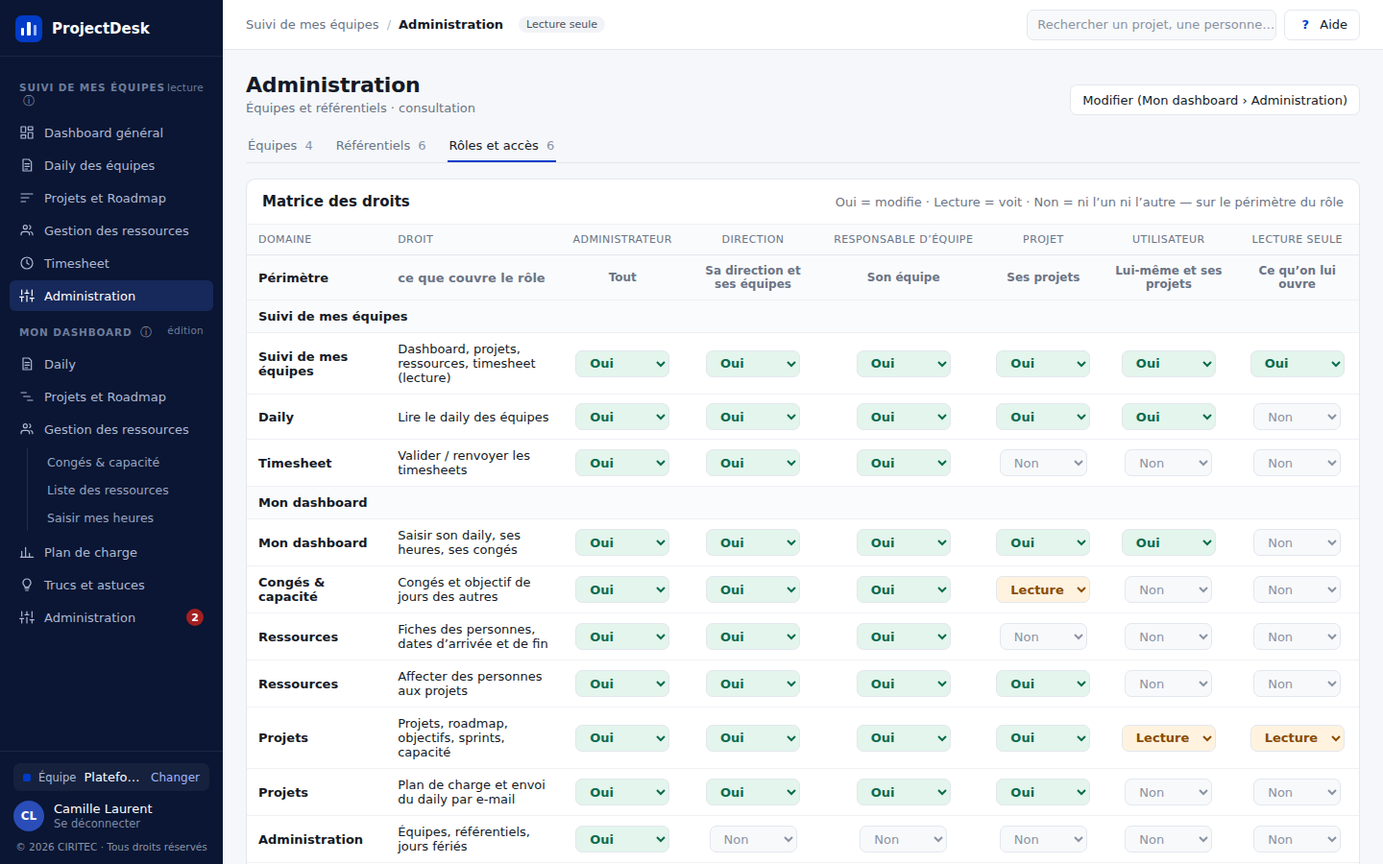
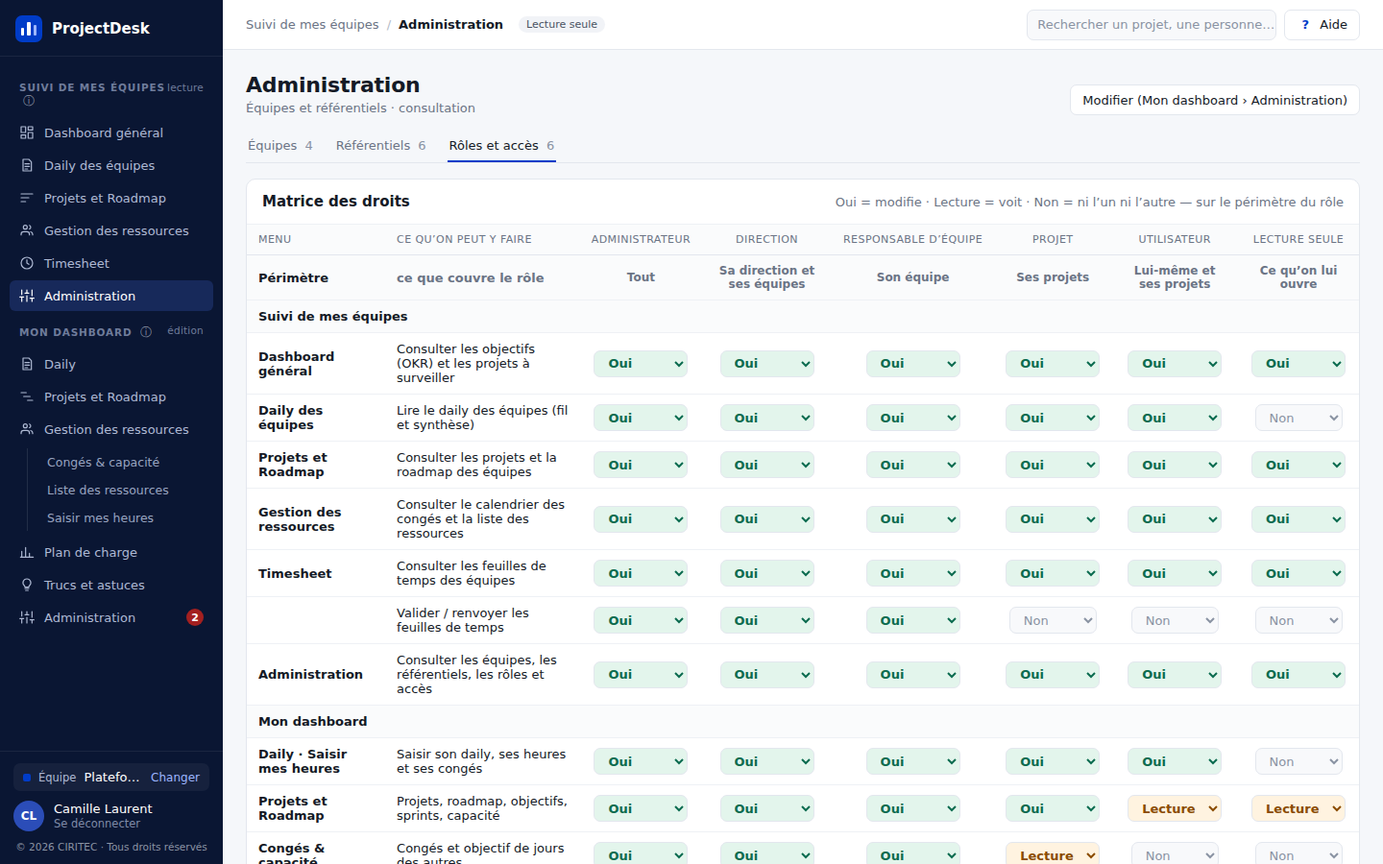
Matrice des droits par menu : un droit par menu de Suivi de mes équipes (migration 037 à appliquer) — DAT 2.19
- Colonnes Menu / Ce qu'on peut y faire, lignes dans l'ordre de la barre latérale,
  Trucs et astuces affiché « Tous ».
- Suivi de mes équipes : suivi_dashboard, suivi_projets, suivi_ressources, suivi_timesheet,
  suivi_administration (+ daily_equipes, valider_timesheet) règlent l'affichage de chaque menu.
- Migration 037 (additive) : nouveaux droits initialisés au niveau de « general » ; en attendant,
  l'application reprend ce niveau (repli) et fige les cases correspondantes.

Claude-Session: https://claude.ai/code/session_0187v8SY8uiT6dnWqjjqJYb6

diff --git a/app/js/config.js b/app/js/config.js
@@ -79,20 +79,29 @@ const ROLES_CHOISISSABLES = ['admin', 'direction', 'responsable', 'projet', 'uti
    2026-10-13). Clés fixes : chacune est reliée à des règles de la base (migration 031, fonction a_droit) ;
    les NIVEAUX (oui / lecture / non) se règlent dans l'application (table droits_roles). */
 const DROITS = [
-  { cle: 'general', section: 'suivi', domaine: 'Suivi de mes équipes', libelle: 'Dashboard, projets, ressources, timesheet (lecture)' },
-  { cle: 'mon_dashboard', section: 'dashboard', domaine: 'Mon dashboard', libelle: 'Saisir son daily, ses heures, ses congés' },
-  { cle: 'daily_equipes', section: 'suivi', domaine: 'Daily', libelle: 'Lire le daily des équipes' },
-  { cle: 'conges_equipe', section: 'dashboard', domaine: 'Congés & capacité', libelle: 'Congés et objectif de jours des autres' },
-  { cle: 'valider_timesheet', section: 'suivi', domaine: 'Timesheet', libelle: 'Valider / renvoyer les timesheets' },
-  { cle: 'fiches_ressources', section: 'dashboard', domaine: 'Ressources', libelle: 'Fiches des personnes, dates d’arrivée et de fin' },
-  { cle: 'affecter', section: 'dashboard', domaine: 'Ressources', libelle: 'Affecter des personnes aux projets' },
-  { cle: 'projets', section: 'dashboard', domaine: 'Projets', libelle: 'Projets, roadmap, objectifs, sprints, capacité' },
-  { cle: 'piloter', section: 'dashboard', domaine: 'Projets', libelle: 'Plan de charge et envoi du daily par e-mail' },
-  { cle: 'administration', section: 'dashboard', domaine: 'Administration', libelle: 'Équipes, référentiels, jours fériés' },
-  { cle: 'comptes', section: 'dashboard', domaine: 'Accès', libelle: 'Comptes en attente : donner l’accès' },
-  { cle: 'roles', section: 'dashboard', domaine: 'Accès', libelle: 'Rôles des utilisateurs et matrice des droits' },
-  { cle: 'nommer_admin', section: 'dashboard', domaine: 'Accès', libelle: 'Nommer ou retirer un administrateur' }
+  /* menu : menu de la barre latérale où le droit s'exerce (colonne « Menu » de la matrice, porteur 2026-10-18).
+     Suivi de mes équipes : un droit par menu (option B du porteur, migration 037). Tant que la migration 037
+     n'est pas appliquée, ces droits reprennent le niveau de l'ancien droit commun « general » (repli). */
+  { cle: 'suivi_dashboard', section: 'suivi', menu: 'Dashboard général', libelle: 'Consulter les objectifs (OKR) et les projets à surveiller', repli: 'general' },
+  { cle: 'daily_equipes', section: 'suivi', menu: 'Daily des équipes', libelle: 'Lire le daily des équipes (fil et synthèse)' },
+  { cle: 'suivi_projets', section: 'suivi', menu: 'Projets et Roadmap', libelle: 'Consulter les projets et la roadmap des équipes', repli: 'general' },
+  { cle: 'suivi_ressources', section: 'suivi', menu: 'Gestion des ressources', libelle: 'Consulter le calendrier des congés et la liste des ressources', repli: 'general' },
+  { cle: 'suivi_timesheet', section: 'suivi', menu: 'Timesheet', libelle: 'Consulter les feuilles de temps des équipes', repli: 'general' },
+  { cle: 'valider_timesheet', section: 'suivi', menu: 'Timesheet', libelle: 'Valider / renvoyer les feuilles de temps' },
+  { cle: 'suivi_administration', section: 'suivi', menu: 'Administration', libelle: 'Consulter les équipes, les référentiels, les rôles et accès', repli: 'general' },
+  { cle: 'mon_dashboard', section: 'dashboard', menu: 'Daily · Saisir mes heures', libelle: 'Saisir son daily, ses heures et ses congés' },
+  { cle: 'projets', section: 'dashboard', menu: 'Projets et Roadmap', libelle: 'Projets, roadmap, objectifs, sprints, capacité' },
+  { cle: 'conges_equipe', section: 'dashboard', menu: 'Congés & capacité', libelle: 'Congés et objectif de jours des autres' },
+  { cle: 'fiches_ressources', section: 'dashboard', menu: 'Liste des ressources', libelle: 'Fiches des personnes, dates d’arrivée et de fin' },
+  { cle: 'affecter', section: 'dashboard', menu: 'Liste des ressources', libelle: 'Affecter des personnes aux projets' },
+  { cle: 'piloter', section: 'dashboard', menu: 'Plan de charge', libelle: 'Plan de charge et envoi du daily par e-mail' },
+  { cle: 'administration', section: 'dashboard', menu: 'Administration', libelle: 'Équipes, référentiels, jours fériés' },
+  { cle: 'comptes', section: 'dashboard', menu: 'Administration', libelle: 'Comptes en attente : donner l’accès' },
+  { cle: 'roles', section: 'dashboard', menu: 'Administration', libelle: 'Rôles des utilisateurs et matrice des droits' },
+  { cle: 'nommer_admin', section: 'dashboard', menu: 'Administration', libelle: 'Nommer ou retirer un administrateur' }
 ];
+// Menus ouverts à tous, sans droit réglable : affichés dans la matrice pour qu'elle couvre tous les menus
+const MENUS_SANS_DROIT = [{ section: 'dashboard', menu: 'Trucs et astuces', libelle: 'Fiches pratiques : Agile, Roadmap, Test & Learn' }];
 /* Sections de la matrice des droits (porteur 2026-10-18) : les droits sont rangés sous la section de
    l'application où ils s'exercent — « Suivi de mes équipes » (lecture, daily des équipes, validation des
    timesheets) puis « Mon dashboard » (saisies, ressources, projets, administration, accès). */

diff --git a/app/js/roles.js b/app/js/roles.js
@@ -138,9 +138,10 @@ const Roles = {
         </table></div></div>`;
   },
 
-  /* Matrice des droits (maquette roles-droits/, sections maquette matrice-sections/) : une colonne par rôle,
-     la ligne « Périmètre », puis les droits (DROITS) rangés en deux sections — Suivi de mes équipes, Mon dashboard
-     (SECTIONS_DROITS). Le créateur a tout (colonne fixe, absente de Suivi › Administration › Rôles et accès) ;
+  /* Matrice des droits (maquettes roles-droits/, matrice-sections/, matrice-par-menu/) : une colonne par rôle,
+     la ligne « Périmètre », puis les menus de la barre latérale en deux sections — Suivi de mes équipes, Mon dashboard
+     (SECTIONS_DROITS) — avec, pour chacun, ses droits (DROITS, propriété menu) et les menus ouverts à tous
+     (MENUS_SANS_DROIT). Le créateur a tout (colonne fixe, absente de Suivi › Administration › Rôles et accès) ;
      Administrateur × Rôles reste « Oui » (garde-fou de la base, migration 031). Modifiable avec le droit « roles » :
      chaque changement est enregistré aussitôt (table droits_roles) ; la base refuse sans ce droit. */
   matrice(avecCreateur = true) {
@@ -148,23 +149,28 @@ const Roles = {
     const entete = ROLES_CHOISISSABLES.map(role => `<th class="centre">${esc(ROLES_ACCES[role].libelle)}</th>`).join('');
     const perimetres = ROLES_CHOISISSABLES.map(role => `<td class="centre discret texte-12">${esc(PERIMETRES[role])}</td>`).join('');
     const createur = contenu => avecCreateur ? `<td class="centre">${contenu}</td>` : '';
-    const ligne = d => `<tr><td><b>${esc(d.domaine)}</b></td><td>${esc(d.libelle)}</td>${createur(C.badgeTon('Oui · fixe', 'violet'))}
-      ${ROLES_CHOISISSABLES.map(role => this.celluleNiveau(role, d.cle, modifiable)).join('')}</tr>`;
+    // Le nom du menu n'est écrit que sur la première ligne de ses droits (lignes consécutives d'un même menu)
+    const ligne = (d, i, liste) => `<tr><td>${i && liste[i - 1].menu === d.menu ? '' : `<b>${esc(d.menu)}</b>`}</td><td>${esc(d.libelle)}</td>
+      ${createur(C.badgeTon('Oui · fixe', 'violet'))}${ROLES_CHOISISSABLES.map(role => this.celluleNiveau(role, d.cle, modifiable)).join('')}</tr>`;
+    const sansDroit = m => `<tr><td><b>${esc(m.menu)}</b></td><td>${esc(m.libelle)}</td>
+      ${createur(C.badgeTon('Tous', 'neutre'))}${ROLES_CHOISISSABLES.map(() => `<td class="centre">${C.badgeTon('Tous', 'neutre')}</td>`).join('')}</tr>`;
     const sections = SECTIONS_DROITS.map(sec => `<tr class="groupe"><td colspan="${nbColonnes}"><b>${esc(sec.libelle)}</b></td></tr>`
-      + DROITS.filter(d => d.section === sec.cle).map(ligne).join('')).join('');
+      + DROITS.filter(d => d.section === sec.cle).map(ligne).join('')
+      + MENUS_SANS_DROIT.filter(m => m.section === sec.cle).map(sansDroit).join('')).join('');
     return `<div class="carte"><div class="carte-titre"><h2>Matrice des droits</h2>
         <span class="discret">Oui = modifie · Lecture = voit · Non = ni l’un ni l’autre — sur le périmètre du rôle${modifiable ? '' : ' · consultation'}</span></div>
-      <div class="defilement-x"><table class="tableau tableau-matrice"><thead><tr><th>Domaine</th><th>Droit</th>
+      <div class="defilement-x"><table class="tableau tableau-matrice"><thead><tr><th>Menu</th><th>Ce qu’on peut y faire</th>
         ${avecCreateur ? '<th class="centre">Créateur</th>' : ''}${entete}</tr></thead>
         <tbody><tr class="groupe"><td><b>Périmètre</b></td><td class="discret">ce que couvre le rôle</td>
           ${createur(`<span class="discret texte-12">${esc(PERIMETRES.createur)}</span>`)}${perimetres}</tr>${sections}</tbody></table></div></div>
       <div class="discret texte-12">Chaque « Oui » est appliqué par la base. Un rôle se donne dans Mon dashboard › Administration › Rôles.</div>`;
   },
 
-  // Case d'un rôle × droit : liste Oui / Lecture / Non, enregistrée aussitôt (majDroit) ; figée sans le droit « roles »
+  /* Case d'un rôle × droit : liste Oui / Lecture / Non, enregistrée aussitôt (majDroit). Figée sans le droit « roles »,
+     pour Administrateur × Rôles, et pour un droit pas encore créé en base (migration 037 à appliquer : niveau de repli affiché) */
   celluleNiveau(role, droit, modifiable) {
-    const niveau = ((etat.d.droitsRoles || []).find(d => d.role === role && d.droit === droit) || {}).niveau || 'non';
-    const fixe = !modifiable || (role === 'admin' && droit === 'roles');
+    const niveau = niveauDuRole(role, droit);
+    const fixe = !modifiable || (role === 'admin' && droit === 'roles') || !droitEnBase(droit);
     const options = Object.entries(NIVEAUX_DROIT).map(([valeur, n]) => ({ valeur, libelle: n.libelle }));
     return `<td class="centre">${C.liste(options, niveau, `class="champ champ-mini ${NIVEAUX_DROIT[niveau].classe}" data-action-change="majDroit"
       data-role="${role}" data-droit="${droit}"${fixe ? ' disabled' : ''}`)}</td>`;

diff --git a/tests/parcours.js b/tests/parcours.js
@@ -150,7 +150,8 @@ const verifier = (nom, condition, detail = '') => { resultats.push({ nom, ok: !!
     await page.selectOption(celluleAcces, niveauAvant); await page.waitForTimeout(400);
     verifier('Administration › Rôles et accès : matrice sans le créateur, sections Suivi de mes équipes / Mon dashboard, modifiable',
       acces.roles.length === 6 && !acces.roles.includes('Créateur') && acces.roles[0] === 'Administrateur'
-      && acces.sections[1] === 'Suivi de mes équipes' && acces.sections[2] === 'Mon dashboard' && accesEnregistre, JSON.stringify(acces));
+      && acces.sections[1] === 'Suivi de mes équipes' && acces.sections[2] === 'Mon dashboard' && accesEnregistre
+      && await page.evaluate(() => DROITS.filter(d => d.section === 'suivi').length === 7), JSON.stringify(acces));
     await capture('06b-administration-roles');
     await page.click('[data-action="ongletAdministration"][data-id="equipes"]');
     await aller('timesheet'); await page.click('[data-action="moisTempsPrecedent"]'); await page.click('[data-action="moisTempsSuivant"]');
@@ -833,7 +834,7 @@ const verifier = (nom, condition, detail = '') => { resultats.push({ nom, ok: !!
     // Matrice des droits (migration 031) : une ligne par droit, Administrateur × Rôles verrouillé, niveau modifié et enregistré
     await page.click('[data-action="vueRoles"][data-vue="matrice"]'); await page.waitForTimeout(200);
     const cellule = (role, droit) => `select[data-action-change="majDroit"][data-role="${role}"][data-droit="${droit}"]`;
-    const matrice = await page.evaluate(() => document.querySelectorAll('.tableau-matrice tbody tr').length === DROITS.length + 1 + SECTIONS_DROITS.length);
+    const matrice = await page.evaluate(() => document.querySelectorAll('.tableau-matrice tbody tr').length === DROITS.length + 1 + SECTIONS_DROITS.length + MENUS_SANS_DROIT.length);
     const verrou = await page.$eval(cellule('admin', 'roles'), el => el.disabled);
     await page.selectOption(cellule('utilisateur', 'projets'), 'oui'); await page.waitForTimeout(400);
     const enregistre = await page.evaluate(() => etat.d.droitsRoles.find(d => d.role === 'utilisateur' && d.droit === 'projets').niveau === 'oui');
@@ -853,6 +854,20 @@ const verifier = (nom, condition, detail = '') => { resultats.push({ nom, ok: !!
     verifier('Simulation : vu comme Thomas (membre), sans droits d’administrateur, bandeau affiché', await page.evaluate(() =>
       !!document.querySelector('.bandeau-simulation') && maRessource().nom === 'Thomas Bernard' && !etat.estAdmin && !etat.estCreateur
       && !document.querySelector('[data-ecran="previsionnel"]') && document.querySelector('.moi-nom').textContent === 'Thomas Bernard'));
+    // Droits par menu de Suivi de mes équipes (migration 037) : menu masqué si « Non » ; avant la migration, repli sur « general »
+    const parMenu = await page.evaluate(() => {
+      const ligne = etat.d.droitsRoles.find(d => d.role === monRole() && d.droit === 'suivi_projets'), avant = ligne.niveau;
+      ligne.niveau = 'non'; rendre();
+      const masque = !document.querySelector('.laterale [data-ecran="projets"]') && !!document.querySelector('.laterale [data-ecran="dashboard"]');
+      ligne.niveau = avant;
+      const sauvegarde = etat.d.droitsRoles;
+      etat.d.droitsRoles = sauvegarde.filter(d => d.droit !== 'suivi_projets');
+      const repli = niveauDroit('suivi_projets') === niveauDroit('general');
+      etat.d.droitsRoles = sauvegarde; rendre();
+      return { masque, repli };
+    });
+    verifier('Matrice par menu : menu de Suivi masqué si « Non », repli sur l’ancien droit avant la migration 037',
+      parMenu.masque && parMenu.repli, JSON.stringify(parMenu));
     await aller('administration');
     verifier('Administration › Rôles et accès : onglet absent pour un membre', !(await page.$('[data-action="ongletAdministration"][data-id="roles"]')));
     await aller('daily'); await page.waitForTimeout(300);

diff --git a/app/index.html b/app/index.html
@@ -11,7 +11,7 @@
 <link href="https://fonts.googleapis.com/css2?family=IBM+Plex+Sans:wght@400;500;600;700&family=IBM+Plex+Mono:wght@400;500&display=swap" rel="stylesheet">
 <!-- ?v= : version des fichiers (= version du DAT), à changer à chaque livraison : force le navigateur
      à recharger le code au lieu de réutiliser une ancienne copie en mémoire. -->
-<link rel="stylesheet" href="css/theme.css?v=2.18">
+<link rel="stylesheet" href="css/theme.css?v=2.19">
 </head>
 <body>
   <!-- Toute l'interface est dessinée dans #app par js/coquille.js et js/ecrans/*.js -->
@@ -19,33 +19,33 @@
   <div id="notification" class="notification" role="status"></div>
 
   <!-- Ordre de chargement : configuration, outils, état, puis écrans (qui s'enregistrent dans Ecrans) -->
-  <script src="js/config.js?v=2.18"></script>
-  <script src="js/api.js?v=2.18"></script>
-  <script src="js/calculs.js?v=2.18"></script>
-  <script src="js/etat.js?v=2.18"></script>
-  <script src="js/composants.js?v=2.18"></script>
-  <script src="js/coquille.js?v=2.18"></script>
-  <script src="js/panneau-projet.js?v=2.18"></script>
-  <script src="js/modale.js?v=2.18"></script>
-  <script src="js/excel.js?v=2.18"></script>
-  <script src="js/roles.js?v=2.18"></script>
-  <script src="js/simulation.js?v=2.18"></script>
-  <script src="js/ecrans/connexion.js?v=2.18"></script>
-  <script src="js/ecrans/choix-equipe.js?v=2.18"></script>
-  <script src="js/ecrans/dashboard.js?v=2.18"></script>
-  <script src="js/ecrans/projets.js?v=2.18"></script>
-  <script src="js/ecrans/ressources.js?v=2.18"></script>
-  <script src="js/ecrans/administration.js?v=2.18"></script>
-  <script src="js/ecrans/timesheet.js?v=2.18"></script>
-  <script src="js/ecrans/daily-equipes.js?v=2.18"></script>
-  <script src="js/ecrans/daily.js?v=2.18"></script>
-  <script src="js/ecrans/mes-projets.js?v=2.18"></script>
-  <script src="js/ecrans/conges.js?v=2.18"></script>
-  <script src="js/ecrans/capacite.js?v=2.18"></script>
-  <script src="js/ecrans/liste-ressources.js?v=2.18"></script>
-  <script src="js/ecrans/mon-timesheet.js?v=2.18"></script>
-  <script src="js/ecrans/previsionnel.js?v=2.18"></script>
-  <script src="js/ecrans/mon-admin.js?v=2.18"></script>
-  <script src="js/ecrans/astuces.js?v=2.18"></script>
+  <script src="js/config.js?v=2.19"></script>
+  <script src="js/api.js?v=2.19"></script>
+  <script src="js/calculs.js?v=2.19"></script>
+  <script src="js/etat.js?v=2.19"></script>
+  <script src="js/composants.js?v=2.19"></script>
+  <script src="js/coquille.js?v=2.19"></script>
+  <script src="js/panneau-projet.js?v=2.19"></script>
+  <script src="js/modale.js?v=2.19"></script>
+  <script src="js/excel.js?v=2.19"></script>
+  <script src="js/roles.js?v=2.19"></script>
+  <script src="js/simulation.js?v=2.19"></script>
+  <script src="js/ecrans/connexion.js?v=2.19"></script>
+  <script src="js/ecrans/choix-equipe.js?v=2.19"></script>
+  <script src="js/ecrans/dashboard.js?v=2.19"></script>
+  <script src="js/ecrans/projets.js?v=2.19"></script>
+  <script src="js/ecrans/ressources.js?v=2.19"></script>
+  <script src="js/ecrans/administration.js?v=2.19"></script>
+  <script src="js/ecrans/timesheet.js?v=2.19"></script>
+  <script src="js/ecrans/daily-equipes.js?v=2.19"></script>
+  <script src="js/ecrans/daily.js?v=2.19"></script>
+  <script src="js/ecrans/mes-projets.js?v=2.19"></script>
+  <script src="js/ecrans/conges.js?v=2.19"></script>
+  <script src="js/ecrans/capacite.js?v=2.19"></script>
+  <script src="js/ecrans/liste-ressources.js?v=2.19"></script>
+  <script src="js/ecrans/mon-timesheet.js?v=2.19"></script>
+  <script src="js/ecrans/previsionnel.js?v=2.19"></script>
+  <script src="js/ecrans/mon-admin.js?v=2.19"></script>
+  <script src="js/ecrans/astuces.js?v=2.19"></script>
 </body>
 </html>

diff --git a/app/js/coquille.js b/app/js/coquille.js
@@ -27,13 +27,14 @@ const Coquille = (() => {
   // Menus : id d'écran, libellé, icône ; « enfants » = sous-menu
   // Suivi de mes équipes (identifiant de section : general) : même ordre que Mon dashboard (demande du porteur 2026-10-12) — Daily, Projets, Ressources
   // (avec le Timesheet, comme « Mon timesheet » est rangé dans Gestion des ressources), Administration
+  // Menus de Suivi de mes équipes : chacun affiché si le droit de son menu n'est pas « Non » (matrice, migration 037)
   const MENU_GENERAL = [
-    { id: 'dashboard', libelle: 'Dashboard général', icone: 'dash' },
-    { id: 'dailyEquipes', libelle: 'Daily des équipes', icone: 'daily', visible: () => niveauDroit('daily_equipes') !== 'non' },
-    { id: 'projets', libelle: 'Projets et Roadmap', icone: 'proj' },
-    { id: 'ressources', libelle: 'Gestion des ressources', icone: 'ress' },
-    { id: 'timesheet', libelle: 'Timesheet', icone: 'time' },
-    { id: 'administration', libelle: 'Administration', icone: 'admin' }
+    { id: 'dashboard', libelle: 'Dashboard général', icone: 'dash', droit: 'suivi_dashboard' },
+    { id: 'dailyEquipes', libelle: 'Daily des équipes', icone: 'daily', droit: 'daily_equipes' },
+    { id: 'projets', libelle: 'Projets et Roadmap', icone: 'proj', droit: 'suivi_projets' },
+    { id: 'ressources', libelle: 'Gestion des ressources', icone: 'ress', droit: 'suivi_ressources' },
+    { id: 'timesheet', libelle: 'Timesheet', icone: 'time', droit: 'suivi_timesheet' },
+    { id: 'administration', libelle: 'Administration', icone: 'admin', droit: 'suivi_administration' }
   ];
   const MENU_MOI = [
     { id: 'daily', libelle: 'Daily', icone: 'daily' },
@@ -65,12 +66,13 @@ const Coquille = (() => {
   function barreLaterale() {
     const eq = equipe(etat.equipeCourante);
     const nom = etat.session.user.name || etat.session.user.email;
+    const menusSuivi = MENU_GENERAL.filter(item => niveauDroit(item.droit) !== 'non');
     return `
     <aside class="laterale${ui('menuLateral', { ouvert: false }).ouvert ? ' ouverte' : ''}">
       ${C.marque()}
       <nav>
-        <div class="menu-titre"><span>Suivi de mes équipes ${C.aide('sectionGeneral')}</span><span>lecture</span></div>
-        ${niveauDroit('general') === 'non' ? '' : MENU_GENERAL.filter(item => !item.visible || item.visible()).map(lienMenu).join('')}
+        ${menusSuivi.length ? `<div class="menu-titre"><span>Suivi de mes équipes ${C.aide('sectionGeneral')}</span><span>lecture</span></div>
+        ${menusSuivi.map(lienMenu).join('')}` : ''}
         ${niveauDroit('mon_dashboard') === 'non' ? '' : `<div class="menu-titre"><span>Mon dashboard ${C.aide('sectionMoi')}</span><span>édition</span></div>
         ${MENU_MOI.filter(item => !item.visible || item.visible()).map(lienMenu).join('')}`}
       </nav>

diff --git a/app/js/etat.js b/app/js/etat.js
@@ -197,7 +197,7 @@ async function demarrer() {
     const equipesReconnues = mesEquipes();
     const memorisee = lireMemoire('equipe');
     // Écran d'arrivée : on reste sur l'écran courant s'il y en avait un (ex. rechargement)
-    const ecranArrivee = defaut => (['connexion', 'choixEquipe'].includes(etat.ecran) ? defaut : etat.ecran);
+    const ecranArrivee = defaut => (['connexion', 'choixEquipe'].includes(etat.ecran) ? (defaut === 'dashboard' ? ecranAccueil() : defaut) : etat.ecran);
     if (!equipesReconnues.length) {
       // Sans équipe : l'administrateur entre dans l'outil (Administration s'il faut créer la
       // première équipe, sinon le dashboard) ; les autres comptes attendent une invitation (écran Choix d'équipe).
@@ -282,12 +282,21 @@ function monRole() {
   const responsable = (moi && estResponsableEquipe(moi)) || Object.values(etat.rolesEquipe).some(r => ['owner', 'admin'].includes(r));
   return responsable ? 'responsable' : 'utilisateur';
 }
-// Niveau d'un droit pour moi : « oui » pour le créateur, sinon celui de la matrice (« non » s'il manque)
-function niveauDroit(droit) {
-  if (etat.estCreateur) return 'oui';
-  const ligne = (etat.d.droitsRoles || []).find(d => d.role === monRole() && d.droit === droit);
-  return ligne ? ligne.niveau : 'non';
+// Écran d'arrivée : le dashboard général, ou le daily si le rôle n'a pas accès au dashboard (matrice)
+const ecranAccueil = () => niveauDroit('suivi_dashboard') === 'non' ? 'daily' : 'dashboard';
+// Le droit existe-t-il dans la table droits_roles ? (droits par menu : après la migration 037)
+const droitEnBase = droit => (etat.d.droitsRoles || []).some(d => d.droit === droit);
+/* Niveau d'un droit pour un rôle, d'après la matrice (« non » s'il manque). Un droit pas encore créé en
+   base (migration à appliquer) reprend le niveau de son droit de repli (DROITS, config.js), pour que
+   les menus restent visibles comme avant. */
+function niveauDuRole(role, droit) {
+  const ligne = (etat.d.droitsRoles || []).find(d => d.role === role && d.droit === droit);
+  if (ligne) return ligne.niveau;
+  const def = DROITS.find(d => d.cle === droit);
+  return def && def.repli && !droitEnBase(droit) ? niveauDuRole(role, def.repli) : 'non';
 }
+// Niveau d'un droit pour moi : « oui » pour le créateur, sinon celui de mon rôle dans la matrice
+const niveauDroit = droit => etat.estCreateur ? 'oui' : niveauDuRole(monRole(), droit);
 const aDroit = droit => niveauDroit(droit) === 'oui';
 
 /* ---------- Accès pratiques aux données ---------- */

diff --git a/tests/serveur-simule.js b/tests/serveur-simule.js
@@ -132,9 +132,11 @@ function amorcer() {
   bd.roles_prevus = [];          // rôles prévus en attente de la connexion de la personne (migration 029)
   bd.roles_acces = [];           // rôle d'accès déclaré de chaque fiche (migration 030)
   bd.membres_equipe = [];        // personnes rattachées à une autre équipe (migration 033)
-  // Matrice des droits (migration 031) : mêmes valeurs de départ (admin, direction, responsable, projet, utilisateur, lecture)
+  // Matrice des droits (migrations 031 et 037 : droits par menu de Suivi de mes équipes) : mêmes valeurs de départ (admin, direction, responsable, projet, utilisateur, lecture)
   const MATRICE = {
-    general: 'oui oui oui oui oui oui', mon_dashboard: 'oui oui oui oui oui non', daily_equipes: 'oui oui oui oui oui non',
+    general: 'oui oui oui oui oui oui', suivi_dashboard: 'oui oui oui oui oui oui', suivi_projets: 'oui oui oui oui oui oui',
+    suivi_ressources: 'oui oui oui oui oui oui', suivi_timesheet: 'oui oui oui oui oui oui', suivi_administration: 'oui oui oui oui oui oui',
+    mon_dashboard: 'oui oui oui oui oui non', daily_equipes: 'oui oui oui oui oui non',
     conges_equipe: 'oui oui oui lecture non non', valider_timesheet: 'oui oui oui non non non', fiches_ressources: 'oui oui oui non non non',
     affecter: 'oui oui oui oui non non', projets: 'oui oui oui oui lecture lecture', piloter: 'oui oui oui oui non non',
     administration: 'oui non non non non non', comptes: 'oui non non non non non', roles: 'oui non non non non non', nommer_admin: 'oui non non non non non'

diff --git a/docs/DAT.md b/docs/DAT.md
@@ -133,6 +133,7 @@
 | 2.16    | 2026-10-15 | **Livrables documentaires** (porteur : « créer un fichier de spécifications fonctionnelles, cahier de recette, guide utilisateur, fichier de cadrage ») dans `docs/livrables/`, en Word, photographie de la version 2.15 : note de cadrage, spécifications fonctionnelles, cahier de recette (130 contrôles automatiques + 15 cas manuels + PV), guide utilisateur (avec captures). Le DAT reste la référence et porte l'historique des versions. Aucun code ni donnée modifiés |
 | 2.17    | 2026-10-16 | **Gestion des ressources en deux onglets** et **dates de naissance** (porteur : « un onglet Calendrier, et un onglet avec la liste des ressources … les dates de naissance des ressources » ; maquette `ressources-onglets-naissance/` validée) : Suivi de mes équipes › Gestion des ressources a les onglets **Calendrier** (composant `Calendrier`, 🎂 le jour de l'anniversaire, entrée « Anniversaire » dans la légende) et **Liste des ressources** (recherche par nom sans redessiner, filtres Équipe et Statut, colonne **Anniversaire** jour et mois, rappel « Anniversaires du mois ») ; réglages `ui('ressources')`, actions `ongletRessources`, `filtrerEquipeRessources`, `filtrerStatutRessources`, `rechercherRessource` (lecture seule). Fiche : champ facultatif **Date de naissance** ; la date complète n'apparaît que dans la fiche, les écrans montrent le jour et le mois (`Calculs.estAnniversaire`, `Calculs.anniversairesDuMois`, `Calculs.nomMois`). **Migration 036** (`ressources.date_naissance`) **à appliquer** (connexion Neon à ré-autoriser) : d'ici là le champ et la colonne restent masqués (`naissanceDisponible`). Filtre d'équipes commun `optionsEquipes` (Rôles, Gestion des ressources). 134 contrôles, capture `05b-ressources-liste` (§ 3.2, § 4, § 6, § 9) |
 | 2.18    | 2026-10-18 | Trois évolutions validées par le porteur (« ok pour les trois »). (1) **Gestion des ressources › Liste des ressources : colonne Projets** en clair — nom du projet et rôle (« Portail développeurs · PO », « … · Membre »), un par ligne, « hors projet » sinon (maquette `ressources-liste-projets/`) ; les projets d'une personne = ses affectations + les projets dont elle est chef sur la fiche projet (`projetsAvecRoleDe`, `lignesProjetsDe`, etat.js), même affichage dans Mon dashboard › Liste des ressources. (2) **Suivi de mes équipes › Administration › onglet « Rôles et accès »**, réservé aux administrateurs et au créateur : la matrice des droits sans la colonne Créateur, avec la portée de chaque rôle, **modifiable** (droit « roles ») — seconde exception à la lecture seule de la section (action `majDroit`). (3) **Matrice des droits en deux sections** « Suivi de mes équipes » / « Mon dashboard » (`SECTIONS_DROITS`, propriété `section` de `DROITS`, config.js ; maquette `matrice-sections/`), un seul composant `Roles.matrice(avecCreateur)` pour les deux écrans. Tests : notes de daily simulées datées du dernier jour de semaine (échec les samedis et dimanches) ; 136 contrôles, capture `06b-administration-roles` (§ 2, § 3.2, § 3.3, § 9) |
+| 2.19    | 2026-10-18 | **Matrice des droits par menu** (porteur : « suivi de mes équipes : Dashboard, daily, projet et congés, timesheet… », puis option **B** : un droit par menu ; maquette `matrice-par-menu/`) : colonnes **Menu** et **Ce qu’on peut y faire**, lignes dans l'ordre de la barre latérale, section par section ; Trucs et astuces affiché « Tous » (`MENUS_SANS_DROIT`). Suivi de mes équipes : un droit par menu — `suivi_dashboard`, `daily_equipes`, `suivi_projets`, `suivi_ressources`, `suivi_timesheet` (+ `valider_timesheet`), `suivi_administration` — qui règle l'affichage du menu (`MENU_GENERAL`, coquille.js) ; l'ancien droit commun `general` n'est plus affiché. **Migration 037 à appliquer** (connexion Neon à ré-autoriser) : en attendant, les nouveaux droits reprennent le niveau de `general` (`repli`, `niveauDuRole`) et leurs cases sont figées. Écran d'arrivée : le daily si le dashboard est « Non » (`ecranAccueil`). 137 contrôles (§ 3.2, § 4, § 5) |
 | 1.44    | 2026-09-27 | Calcul type Scrum : formule déplacée dans une pop-in (bouton « Comment est-ce calculé ? » en haut à droite), avec un exemple chiffré sur CDO (membres, jours ouvrés, absences, cérémonies, focus) (§ 2.1, § 3.3) |
 
 ---
@@ -273,7 +274,7 @@ validées : `docs/maquettes/pilotage-projet/complements/`) :
 - dans la fenêtre d'affectation, lien **« + Nouveau membre »** : crée la fiche dans l'équipe du
   projet puis revient à l'affectation, personne sélectionnée et projet coché.
 
-## 4. Modèle de données (migrations `002_pilotage_projet.sql`, `003_lecture_administrateurs.sql`, `004_daily_equipes.sql`, `005_directions_postes_contrats.sql`, `006_direction_espace_travail.sql`, `007_valeurs_systeme_renommables.sql`, `008_type_jour_ferie.sql`, `009_demi_journees.sql`, `010_tracer_modification_definer.sql`, `011_objectifs_jours_travail.sql`, `012_dates_presence.sql`, `013_saisies_capacite.sql`, `014_sprints_saisis.sql`, `015_numero_annee_sprints.sql`, `016_feuilles_temps_mensuelles.sql`, `017_envoi_daily.sql`, `018_daily_par_projet.sql`, `019_envoi_daily_projet.sql`, `020_nettoyage_tables.sql`, `021_previsionnel_temps.sql`, `022_methode_projet.sql`, `023_nettoyage_index.sql`, `024_comptes_en_attente.sql`, `025_role_createur.sql`, `026_accepter_invitations.sql`, `027_responsables_equipe.sql`, `028_responsables_et_chefs_unifies.sql`, `029_affecter_roles.sql`, `030_six_roles_acces.sql`, `031_matrice_droits.sql`, `032_administrateur_tous_projets.sql`, `033_membres_equipe.sql`, `034_daily_fiche_sans_compte.sql`, `035_methode_test_learn.sql`, `036_date_naissance.sql` — 035 et 036 à appliquer)
+## 4. Modèle de données (migrations `002_pilotage_projet.sql`, `003_lecture_administrateurs.sql`, `004_daily_equipes.sql`, `005_directions_postes_contrats.sql`, `006_direction_espace_travail.sql`, `007_valeurs_systeme_renommables.sql`, `008_type_jour_ferie.sql`, `009_demi_journees.sql`, `010_tracer_modification_definer.sql`, `011_objectifs_jours_travail.sql`, `012_dates_presence.sql`, `013_saisies_capacite.sql`, `014_sprints_saisis.sql`, `015_numero_annee_sprints.sql`, `016_feuilles_temps_mensuelles.sql`, `017_envoi_daily.sql`, `018_daily_par_projet.sql`, `019_envoi_daily_projet.sql`, `020_nettoyage_tables.sql`, `021_previsionnel_temps.sql`, `022_methode_projet.sql`, `023_nettoyage_index.sql`, `024_comptes_en_attente.sql`, `025_role_createur.sql`, `026_accepter_invitations.sql`, `027_responsables_equipe.sql`, `028_responsables_et_chefs_unifies.sql`, `029_affecter_roles.sql`, `030_six_roles_acces.sql`, `031_matrice_droits.sql`, `032_administrateur_tous_projets.sql`, `033_membres_equipe.sql`, `034_daily_fiche_sans_compte.sql`, `035_methode_test_learn.sql`, `036_date_naissance.sql`, `037_droits_par_menu.sql` — 035, 036 et 037 à appliquer)
 
 Colonnes en snake_case ; l'application les manipule en camelCase (conversion dans `api.js`).
 Toutes les tables métier ont `modifie_par` / `modifie_le` (trigger `tracer_modification()`).
@@ -283,7 +284,7 @@ Toutes les tables métier ont `modifie_par` / `modifie_le` (trigger `tracer_modi
 | `administrateurs` | Administrateurs globaux (`user_id` Neon Auth) ; nommés ou retirés par tout administrateur (Administration › Rôles, migration 029 ; le créateur seulement de 025 à 028) | `user_id` |
 | `responsables_equipe` | Responsables de chaque équipe (migration 027) : plusieurs par équipe, une personne peut l'être de plusieurs équipes ; affectés dans Administration › Rôles | `equipe_id`, `ressource_id` |
 | `membres_equipe` | Personnes rattachées à une équipe depuis une autre (migration 033) : affichées dans ses membres, sans changer leur équipe d'origine, leurs droits ni la capacité | `equipe_id`, `ressource_id`, `cree_le` |
-| `droits_roles` | Matrice des droits (migration 031) : niveau `oui` / `lecture` / `non` de chaque droit (`DROITS`, `config.js`) pour chaque rôle ; réglée dans Administration › Rôles › Matrice des droits | `role`, `droit` |
+| `droits_roles` | Matrice des droits (migration 031 ; droits par menu de Suivi de mes équipes, migration 037 : `suivi_dashboard`, `suivi_projets`, `suivi_ressources`, `suivi_timesheet`, `suivi_administration`, initialisés au niveau de `general`) : niveau `oui` / `lecture` / `non` de chaque droit (`DROITS`, `config.js`) pour chaque rôle ; réglée dans Administration › Rôles › Matrice des droits | `role`, `droit` |
 | `roles_acces` | Rôle d'accès déclaré et appliqué d'une fiche (migration 030) : `admin`, `direction`, `responsable`, `projet`, `utilisateur`, `lecture` ; sans ligne, le rôle est déduit (administrateur, responsable ou utilisateur) | `ressource_id` |
 | `roles_prevus` | Rôle d'accès prévu d'une fiche (migrations 029-030, mêmes six valeurs), appliqué par `appliquer_mes_roles_prevus` à la connexion de la personne (email vérifié), puis effacé | `ressource_id` |
 | `createur` | Rôle **Créateur** (migration 025) : une seule ligne (`ligne_unique`), `user_id`, `email`, `nomme_le` ; aucune écriture depuis l'application | `ligne_unique` |
@@ -487,7 +488,7 @@ refusée sur `referentiels` et `administrateurs` (usurpation).
 | Outil | Contenu |
 |-------|---------|
 | `tests/serveur-simule.js` | Neon Auth (dont Google simulé) + Data API simulés en mémoire, identifiants numérotés (et non aléatoires) pour des captures reproductibles, données de la maquette (comptes `camille@test.fr` administratrice/owner, `thomas@test.fr` membre, `elodie@test.fr` demandeuse, `admin@test.fr` administratrice sans équipe ; mot de passe `motdepasse`) |
-| `tests/parcours.js` | Parcours Playwright de bout en bout (136 contrôles, dont « Suivi de mes équipes en lecture seule », l'aller-retour Google simulé, le parcours administrateur sans équipe, le daily des équipes, l'export Excel du daily, le plan de charge et le board des ressources) + captures `docs/maquettes/etat-actuel/` |
+| `tests/parcours.js` | Parcours Playwright de bout en bout (137 contrôles, dont « Suivi de mes équipes en lecture seule », l'aller-retour Google simulé, le parcours administrateur sans équipe, le daily des équipes, l'export Excel du daily, le plan de charge et le board des ressources) + captures `docs/maquettes/etat-actuel/` |
 | `scripts/verifier-docs.js` | Cohérence documentation ↔ code après chaque commit (§ 11) |
 
 Les règles RLS ne sont pas simulées : elles sont vérifiées en base et lors de la recette réelle.
